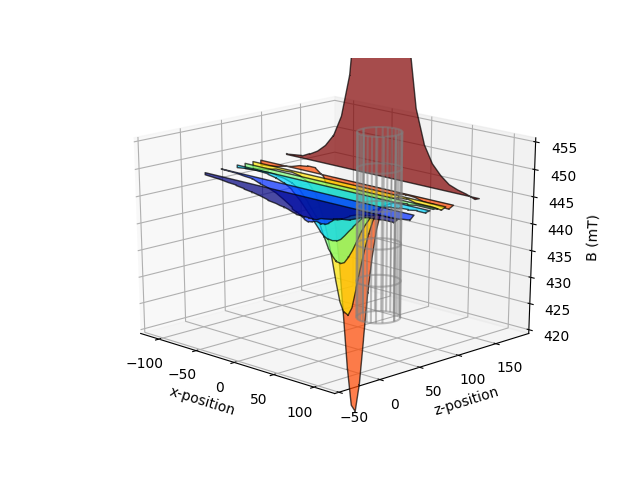
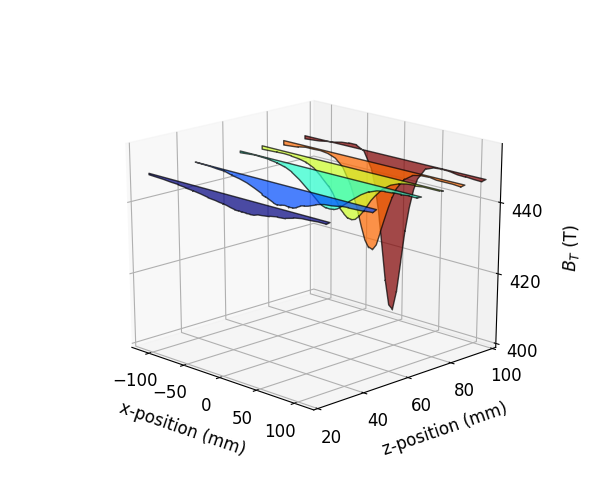
Unify plotting style

diff --git a/pycloak/cloaking_pub17/cloak_mri_1d.py b/pycloak/cloaking_pub17/cloak_mri_1d.py
@@ -14,8 +14,17 @@ def comparescans( figname, figtitle, datafiles, datanames, legend=True ):
         print ("ERROR: Mismatch length datafiles and datanames. Exit.")
         sys.exit(1)
 
-    # create figure
-    fig, ax = plt.subplots()
+
+    # set figure parameters
+    fig, ax = plt.subplots( figsize=(6,5) )
+    ax.tick_params(labelsize=12)
+    ax.set_title(figtitle)
+    plt.xlabel("x-position (mm)",fontsize=12)
+    plt.ylabel("$B_{T}$ (mT)",fontsize=12)
+
+    # mark cloak dimensions
+    plt.axvline(-20.32, color='grey', linestyle='--')
+    plt.axvline(20.31, color='grey', linestyle='--')
 
     # first: plot lines for nominal fields
     for i, (dfile, dname) in enumerate( zip( datafiles, datanames ) ):
@@ -36,15 +45,12 @@ def comparescans( figname, figtitle, datafiles, datanames, legend=True ):
 
 
     # plot cosmetics: set axis parameters
-    ax.set_title(figtitle)
-    ax.set_xlabel('x-position (mm)')
     #ax.set_xlim(-12000, 12000)
-    ax.set_ylabel('B (mT)')
     #ax.set_ylim(0,500)
 
     # add legend
     if ( legend ):
-        ax.legend(loc = 'lower right')
+        ax.legend(loc = 'lower right', prop={'size':12})
 
     plt.savefig(figname)
     plt.show()
@@ -54,21 +60,39 @@ def comparescans( figname, figtitle, datafiles, datanames, legend=True ):
 
 if __name__ == '__main__':
 
-    # Compare SC+FM and SC only at 450 mT
+    # Compare SC+FM and SC only at 450 mT 'in front of cloak'
     comparescans( "plots/cloak_mri_450mT_1d.png" ,
                   "Cloaking at 0.45 T (field measured in front of prototype)",
-                  ["data-calib/DATA_MegaVIEW/DataFile_2016-12-09_12-12-19.csv",
-                   "data-calib/DATA_MegaVIEW/DataFile_2016-12-09_15-06-03.csv" ],
-                  ["cloak",
-                   "sc shield"])
+                  ["data-calib/DATA_MegaVIEW/DataFile_2016-12-09_15-06-03.csv",
+                   "data-calib/DATA_MegaVIEW/DataFile_2016-12-09_12-12-19.csv" ],
+                  ["sc",
+                   "sc + fm"])
 
-    # Compare SC+FM and SC only at 500 mT
+    # Compare SC+FM and SC only at 500 mT 'in front of cloak'
     comparescans( "plots/cloak_mri_500mT_1d.png" ,
                   "Cloaking at 0.50 T (field measured in front of prototype)",
-                  ["data-calib/DATA_MegaVIEW/DataFile_2016-12-09_13-32-08.csv",
-                   "data-calib/DATA_MegaVIEW/DataFile_2016-12-09_15-42-29.csv" ],
-                  ["cloak",
-                   "sc shield"])
+                  ["data-calib/DATA_MegaVIEW/DataFile_2016-12-09_15-42-29.csv",
+                   "data-calib/DATA_MegaVIEW/DataFile_2016-12-09_13-32-08.csv" ],
+                  ["sc",
+                   "sc + fm"])
+
+    # Compare SC+FM and SC only at 450 mT 'across cloak'
+    comparescans( "plots/cloak_mri_450mT_1d_across.png" ,
+                  "Cloaking at 0.45 T (field measured across prototype)",
+                  ["data-calib/DATA_MegaVIEW/DataFile_2016-12-09_15-09-34.csv",
+                   "data-calib/DATA_MegaVIEW/DataFile_2016-12-09_12-42-47.csv" ],
+                  ["sc",
+                   "sc + fm"],
+                  legend = False)
+
+    # Compare SC+FM and SC only at 500 mT 'across cloak'
+    comparescans( "plots/cloak_mri_500mT_1d_across.png" ,
+                  "Cloaking at 0.50 T (field measured across prototype)",
+                  ["data-calib/DATA_MegaVIEW/DataFile_2016-12-09_15-45-26.csv",
+                   "data-calib/DATA_MegaVIEW/DataFile_2016-12-09_13-43-18.csv" ],
+                  ["sc",
+                   "sc + fm"],
+                  legend = False)
 
     # Compare SC+FM and SC at different fields, fM = 0.699
     comparescans( "plots/cloak_mri_varB_fm699_1d.png" ,

diff --git a/pycloak/cloaking_pub17/field_mri_3d.py b/pycloak/cloaking_pub17/field_mri_3d.py
@@ -20,6 +20,9 @@ from matplotlib.colors import LinearSegmentedColormap
 # get data
 data = pd.read_csv("data-calib/DATA_MegaVIEW/DataFile_2016-12-09_18-23-53.csv")
 
+# scale from mT to T
+data['B1'] /= 1000.
+
 # process data to make it work for surface / wireframe plot
 XB = np.unique(data['x'].values)
 YB = np.unique(data['z'].values)
@@ -41,22 +44,22 @@ Z = ZB.reshape(len(YB),len(XB))
 ##### Plot 1: Scatter
 
 # set up main frame
-fig = plt.figure()
+fig = plt.figure( figsize=(6,5) )
 ax = fig.add_subplot(111, projection='3d')
+ax.tick_params(labelsize=12)
+#ax.set_title("MRI field map")
+ax.set_xlabel("x-position (mm)",fontsize=12, labelpad=10)
+ax.set_ylabel("z-position (mm)",fontsize=12, labelpad=10)
+ax.set_zlabel("$B_{T}$ (T)",fontsize=12, labelpad=10)
+plt.locator_params(axis='y',nbins=6)
+plt.locator_params(axis='x',nbins=6)
+plt.locator_params(axis='z',nbins=4)
 
 # plot data
 ax.scatter(data['x'],data['z'],abs(data['B1']), marker='o')
 
 # set view angle
 ax.view_init(50, 45)
-
-## set axis parameters
-ax.set_xlabel('x-position')
-##ax.set_xlim3d(-120, 120)
-ax.set_ylabel('z-position')
-##ax.set_ylim3d(-50,190)
-ax.set_zlabel('B (mT)')
-##ax.set_zlim3d(420,455)
 
 plt.savefig("plots/mri_fieldmap_empty_1400mT.png")
 plt.show()
@@ -65,22 +68,22 @@ plt.show()
 ##### Plot 2: Surface / Wireframe
 
 # set up main frame
-fig = plt.figure()
+fig = plt.figure( figsize=(6,5) )
 ax = fig.add_subplot(111, projection='3d')
+ax.tick_params(labelsize=12)
+#ax.set_title("MRI field map")
+ax.set_xlabel("x-position (mm)",fontsize=12, labelpad=10)
+ax.set_ylabel("z-position (mm)",fontsize=12, labelpad=10)
+ax.set_zlabel("$B_{T}$ (T)",fontsize=12, labelpad=10)
+plt.locator_params(axis='y',nbins=6)
+plt.locator_params(axis='x',nbins=6)
+plt.locator_params(axis='z',nbins=4)
 
 #ax.plot_wireframe(X, Y, Z, rstride=20, cstride=20, alpha=1.0)
 ax.plot_surface(X, Y, Z, cmap=cm.jet, rstride=1, cstride=1)
 
 # set view angle
 ax.view_init(50, 45)
-
-## set axis parameters
-ax.set_xlabel('x-position')
-##ax.set_xlim3d(-120, 120)
-ax.set_ylabel('z-position')
-##ax.set_ylim3d(-50,190)
-ax.set_zlabel('B (mT)')
-##ax.set_zlim3d(420,455)
 
 plt.savefig("plots/mri_fieldmap_empty_1400mT_surf.png")
 plt.show()

diff --git a/pycloak/cloaking_pub17/cloak_mri_3d.py b/pycloak/cloaking_pub17/cloak_mri_3d.py
@@ -16,16 +16,24 @@ from matplotlib.colors import LinearSegmentedColormap
 
 # Settings:
 # Choose input file list
-setlist = "filelist_mri_fieldmap_sc_45L_450mT.txt"
-#setlist = "filelist_mri_fieldmap_sc_45L_fm_618_450mT.txt"
+#setlist = "filelist_mri_fieldmap_sc_45L_450mT.txt"
+setlist = "filelist_mri_fieldmap_sc_45L_fm_618_450mT.txt"
 
 # Choose output file name for plot
-figname = "plots/cloak_mri_3d_sc_45L.png"
-#figname = "plots/cloak_mri_3d_sc_45L_fm_618.png"
+#figname = "plots/cloak_mri_3d_sc_45L.png"
+figname = "plots/cloak_mri_3d_sc_45L_fm_618.png"
 
 # set up main frame
-fig = plt.figure()
-ax = fig.gca(projection='3d')
+fig = plt.figure( figsize=(6,5) )
+ax = fig.add_subplot(111, projection='3d')
+ax.tick_params(labelsize=12)
+#ax.set_title("MRI field map")
+ax.set_xlabel("x-position (mm)",fontsize=12, labelpad=10)
+ax.set_ylabel("z-position (mm)",fontsize=12, labelpad=10)
+ax.set_zlabel("$B_{T}$ (T)",fontsize=12, labelpad=10)
+plt.locator_params(axis='y',nbins=6)
+plt.locator_params(axis='x',nbins=6)
+plt.locator_params(axis='z',nbins=4)
 
 # function to choose color
 def cc(arg):
@@ -101,8 +109,8 @@ rstride = 20
 cstride = 10
 #ax.plot_surface(Xc, Yc, Zc, alpha=0.5, rstride=rstride, cstride=cstride, color='grey')
 #ax.plot_surface(Xc, Ycm, Zc, alpha=0.5, rstride=rstride, cstride=cstride, color='grey')
-ax.plot_wireframe(Xc, Yc, Zc, alpha=0.5, rstride=rstride, cstride=cstride, color='grey')
-ax.plot_wireframe(Xc, Ycm, Zc, alpha=0.5, rstride=rstride, cstride=cstride, color='grey')
+#ax.plot_wireframe(Xc, Yc, Zc, alpha=0.5, rstride=rstride, cstride=cstride, color='grey')
+#ax.plot_wireframe(Xc, Ycm, Zc, alpha=0.5, rstride=rstride, cstride=cstride, color='grey')
 
 # set color range
 colors = LinearSegmentedColormap('colormap', cm.jet._segmentdata.copy(), len(zslices))
@@ -116,12 +124,9 @@ ax.add_collection3d(poly, zs=zslices, zdir='y')
 ax.view_init(20, -45)
 
 # set axis parameters
-ax.set_xlabel('x-position')
 ax.set_xlim3d(-120, 120)
-ax.set_ylabel('z-position')
-ax.set_ylim3d(-50,190)
-ax.set_zlabel('B (mT)')
-ax.set_zlim3d(420,455)
+ax.set_ylim3d(20,100)
+ax.set_zlim3d(400,455)
 
 plt.savefig(figname)
 plt.show()
